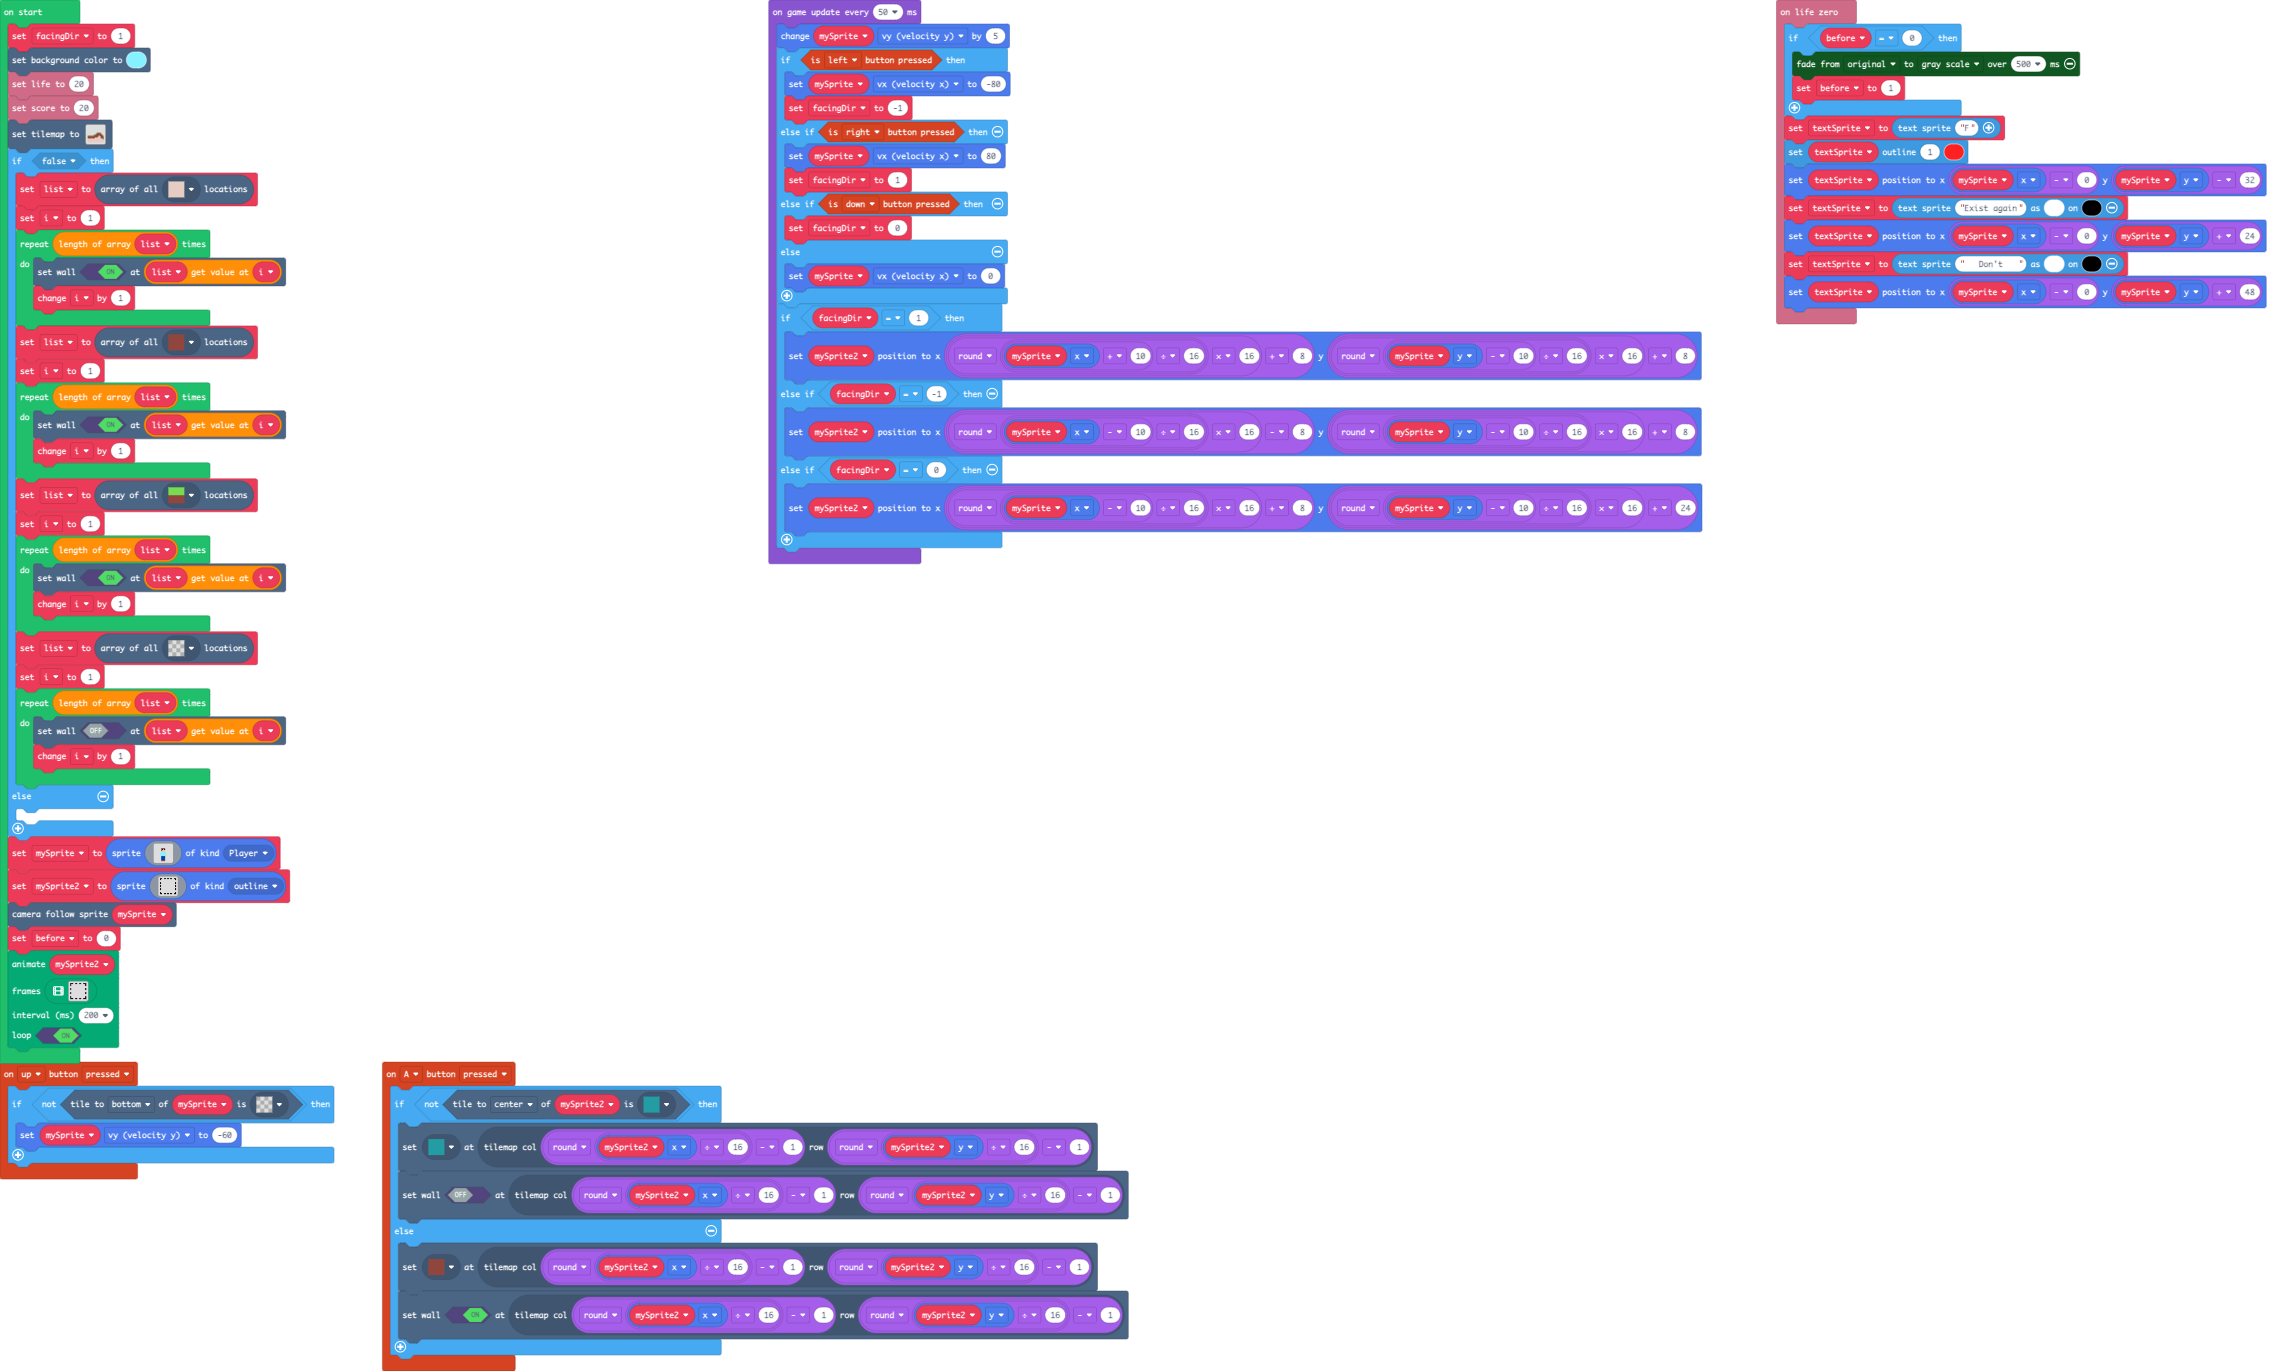
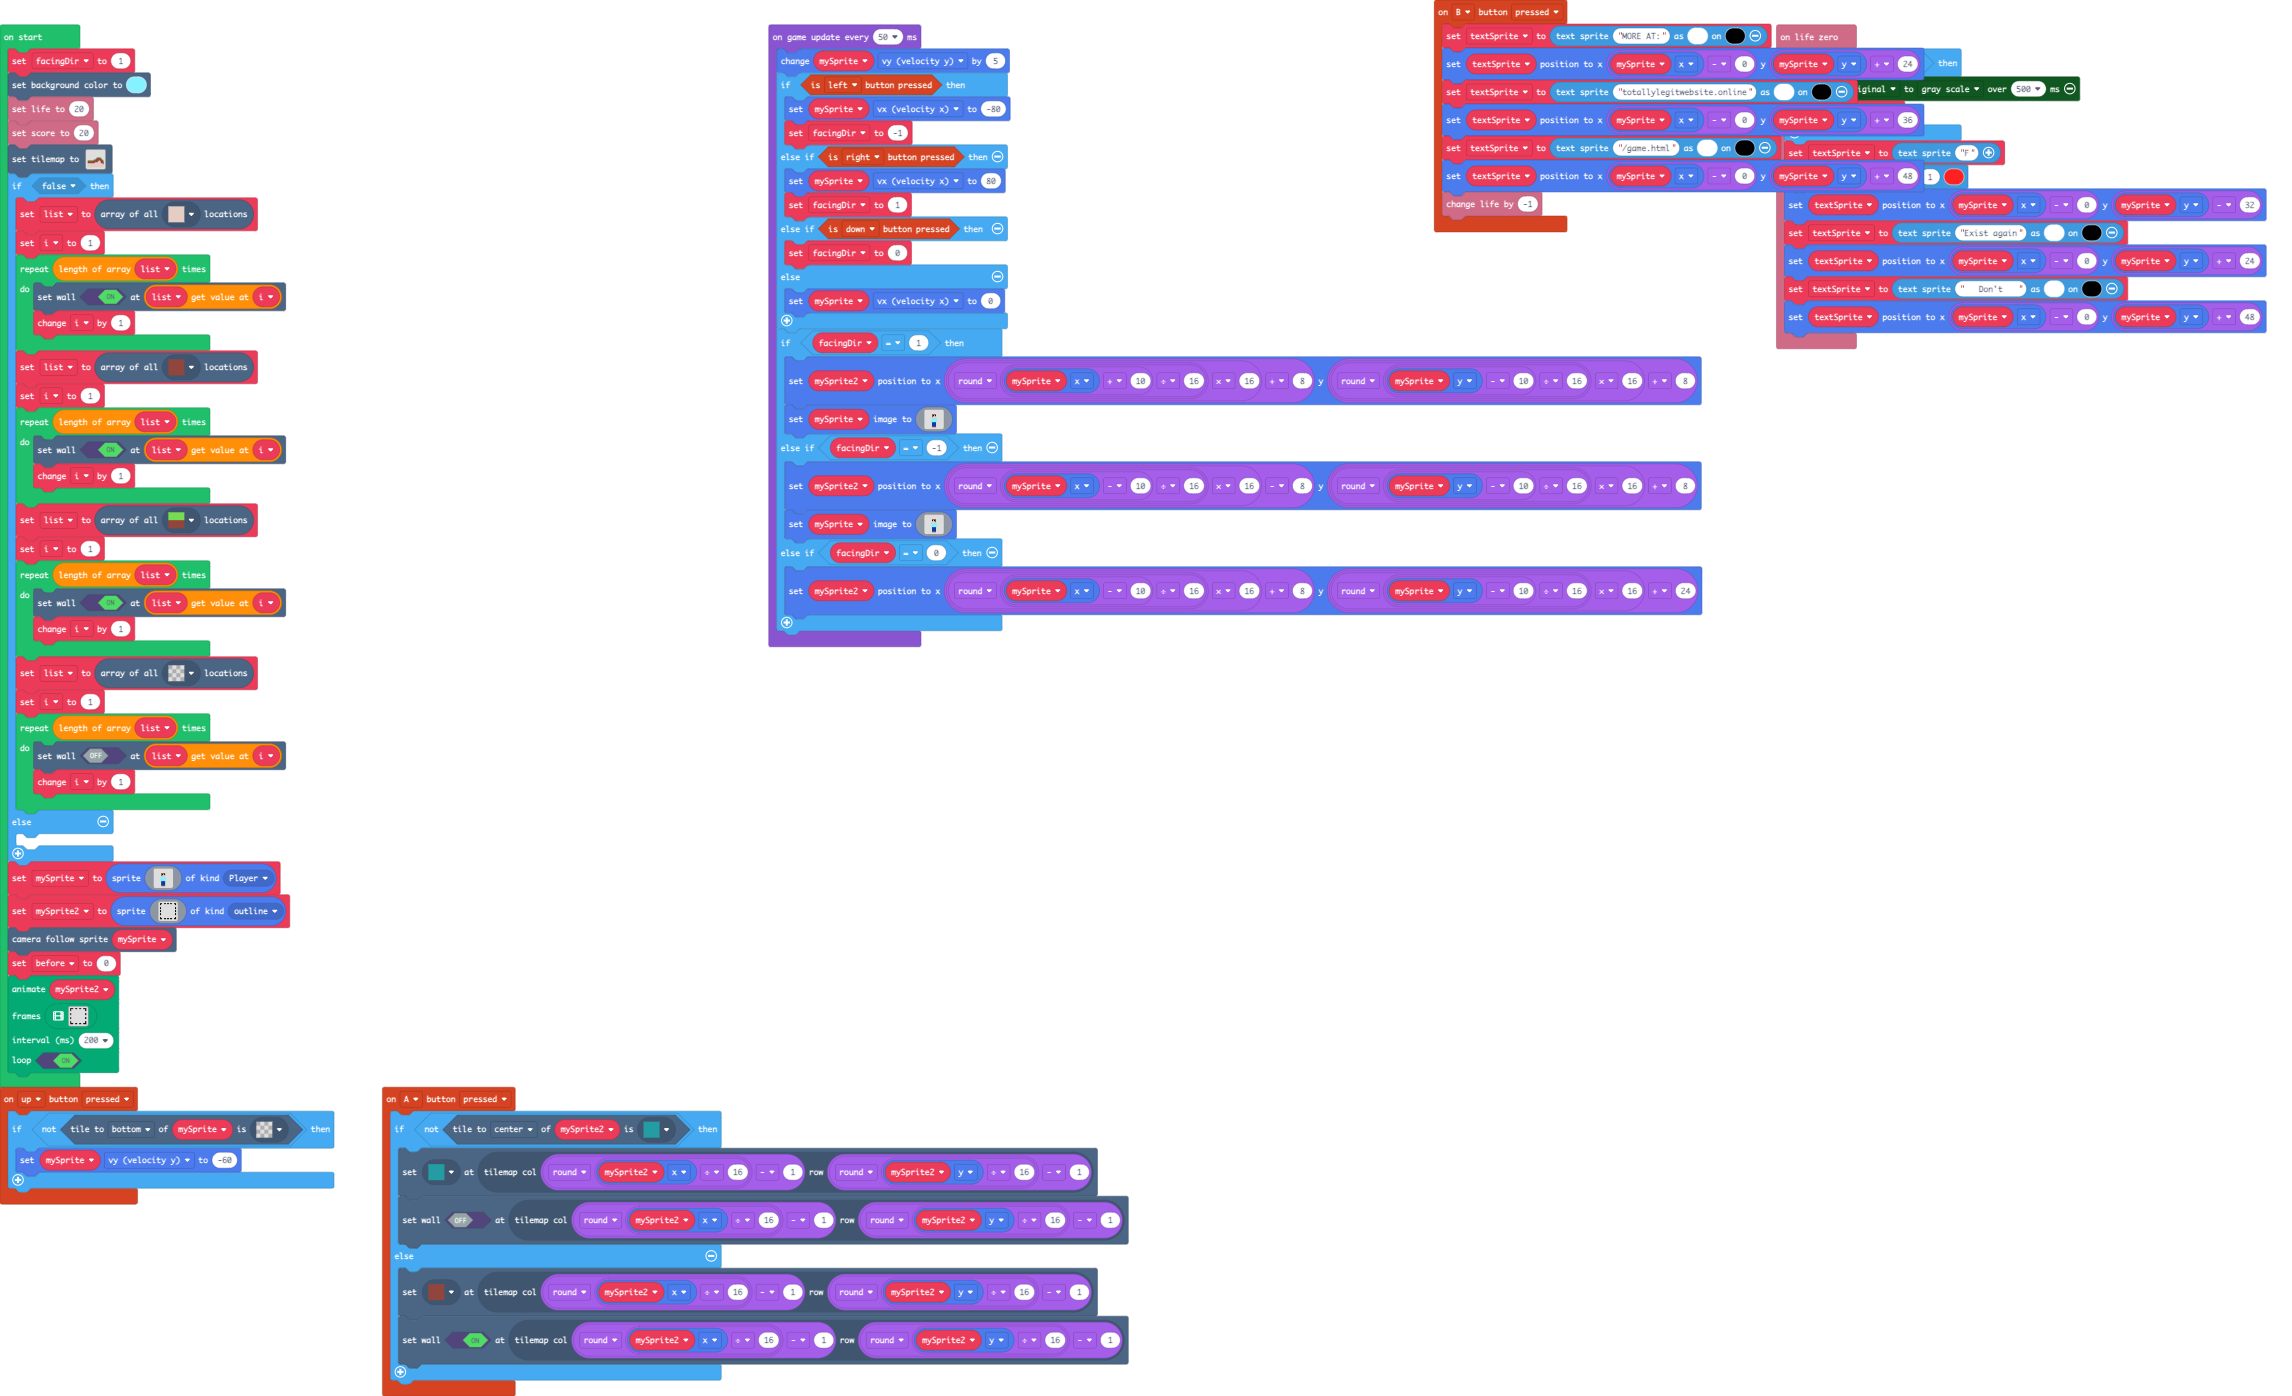
Update main.blocks, main.ts, tilemap.g.jres, tilemap.g.ts

Changed region(s): [[0.0, 0.0, 0.4956, 0.9803], [0.3098, 0.0, 0.7435, 0.4902], [0.6195, 0.0, 0.9913, 0.2757]]

diff --git a/main.ts b/main.ts
@@ -6,6 +6,15 @@ controller.up.onEvent(ControllerButtonEvent.Pressed, function () {
         mySprite.vy = -60
     }
 })
+controller.B.onEvent(ControllerButtonEvent.Pressed, function () {
+    textSprite = textsprite.create("MORE AT:", 15, 1)
+    textSprite.setPosition(mySprite.x - 0, mySprite.y + 24)
+    textSprite = textsprite.create("totallylegitwebsite.online", 15, 1)
+    textSprite.setPosition(mySprite.x - 0, mySprite.y + 36)
+    textSprite = textsprite.create("/game.html", 15, 1)
+    textSprite.setPosition(mySprite.x - 0, mySprite.y + 48)
+    info.changeLifeBy(-1)
+})
 controller.A.onEvent(ControllerButtonEvent.Pressed, function () {
     if (!(mySprite2.tileKindAt(TileDirection.Center, assets.tile`mizu`))) {
         tiles.setTileAt(tiles.getTileLocation(Math.round(mySprite2.x / 16) - 1, Math.round(mySprite2.y / 16) - 1), assets.tile`mizu`)
@@ -92,8 +101,10 @@ game.onUpdateInterval(50, function () {
     }
     if (facingDir == 1) {
         mySprite2.setPosition(Math.round((mySprite.x + 10) / 16) * 16 + 8, Math.round((mySprite.y - 10) / 16) * 16 + 8)
+        mySprite.setImage(assets.tile`char_r`)
     } else if (facingDir == -1) {
         mySprite2.setPosition(Math.round((mySprite.x - 10) / 16) * 16 - 8, Math.round((mySprite.y - 10) / 16) * 16 + 8)
+        mySprite.setImage(assets.tile`char_l`)
     } else if (facingDir == 0) {
         mySprite2.setPosition(Math.round((mySprite.x - 10) / 16) * 16 + 8, Math.round((mySprite.y - 10) / 16) * 16 + 24)
     }

diff --git a/tilemap.g.ts b/tilemap.g.ts
@@ -15,9 +15,9 @@ namespace myTiles {
     //% fixedInstance jres blockIdentity=images._tile
     export const tile6 = image.ofBuffer(hex``);
     //% fixedInstance jres blockIdentity=images._tile
-    export const tile8 = image.ofBuffer(hex``);
-    //% fixedInstance jres blockIdentity=images._tile
     export const tile7 = image.ofBuffer(hex``);
+    //% fixedInstance jres blockIdentity=images._tile
+    export const tile8 = image.ofBuffer(hex``);
 
     helpers._registerFactory("tilemap", function(name: string) {
         switch(helpers.stringTrim(name)) {
@@ -59,10 +59,10 @@ namespace myTiles {
             case "tile5":return tile5;
             case "outline":
             case "tile6":return tile6;
-            case "char_l":
-            case "tile8":return tile8;
             case "char_r":
             case "tile7":return tile7;
+            case "char_l":
+            case "tile8":return tile8;
         }
         return null;
     })
